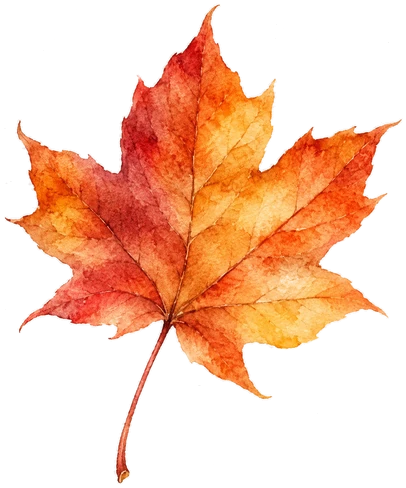
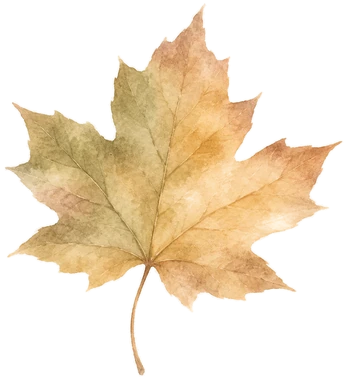
Dress code : feuille d'érable aux tons doux (nouvelle image, détourée)
Claude-Session: https://claude.ai/code/session_01QrDSt8mKtao2LUWf4nzVT7

diff --git a/index.html b/index.html
@@ -812,7 +812,7 @@ details[open] > :not(summary){animation:unfold .45s ease-out backwards}
           <p class="txt">Aucune couleur n'est imposée, venez comme vous êtes bien. Mais évitez le <b class="no">blanc</b>, le <b class="no">noir</b> et le <b class="no">vert</b> (aucune nuance de vert, du plus clair au plus foncé).</p>
         </article>
         <article class="dr dr-octobre">
-          <blockquote class="dicton"><img class="leaf" src="img/dc-feuille.webp" alt="Feuille d'érable aquarelle" width="406" height="488"></blockquote>
+          <blockquote class="dicton"><img class="leaf" src="img/dc-feuille.webp" alt="Feuille d'érable aquarelle" width="347" height="380"></blockquote>
           <h3>En octobre</h3>
           <p class="txt">Il peut faire frais, surtout le soir et en extérieur. Prévoyez de quoi vous couvrir.</p>
         </article>
